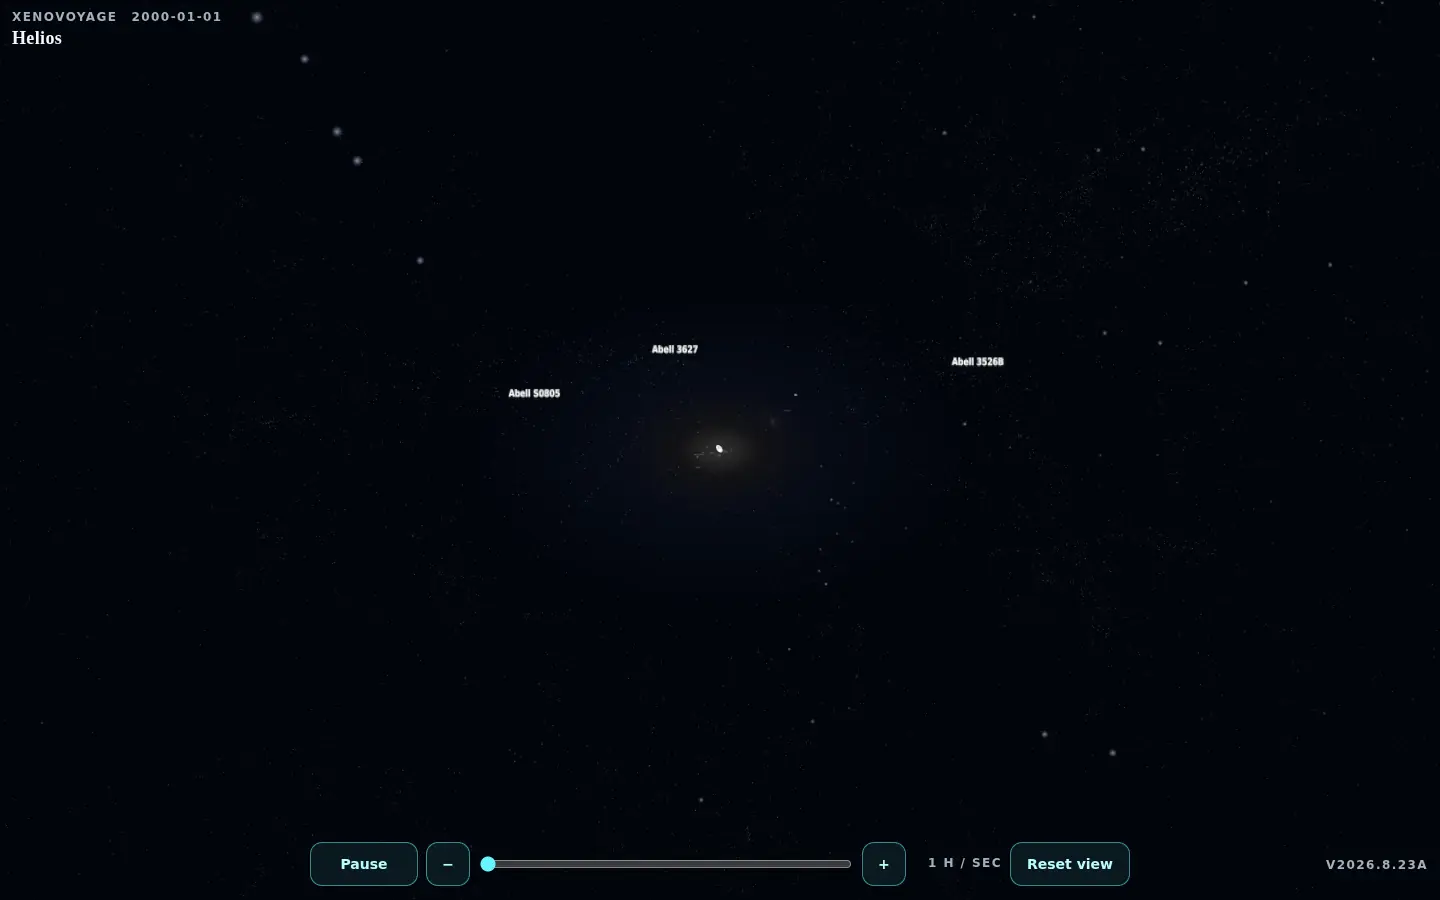
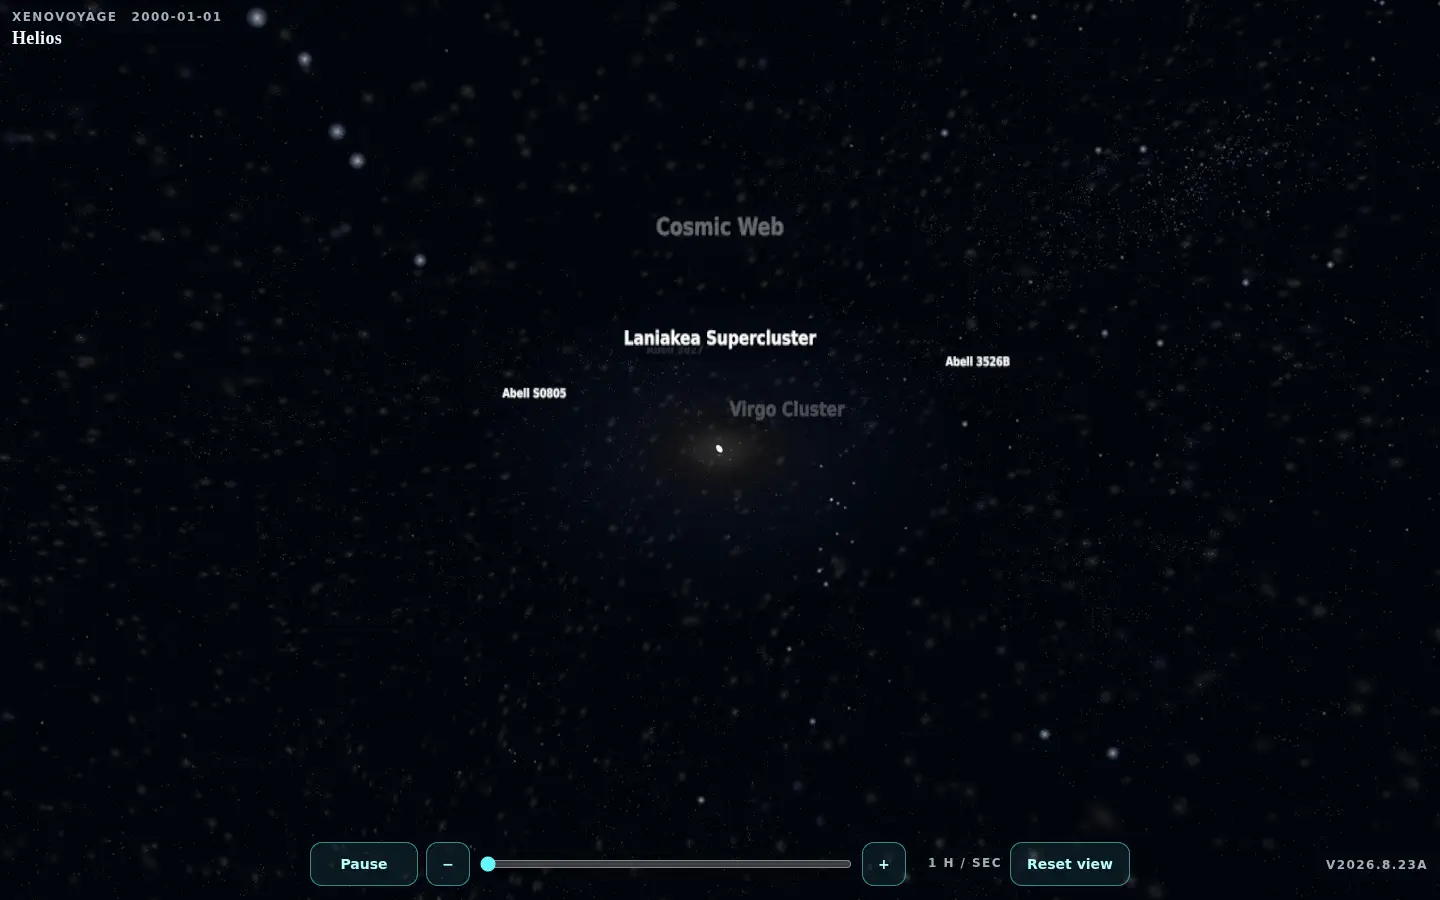
docs: refresh cosmology evidence and provenance

diff --git a/PROVENANCE.md b/PROVENANCE.md
@@ -16,11 +16,11 @@ local files.
 | Body poles and prime meridians | [NAIF generic PCK `pck00011.tpc`](https://naif.jpl.nasa.gov/pub/naif/generic_kernels/pck/pck00011.tpc) | The Sun, planets, Ceres, Pluto, the Moon, and Triton use PCK poles evaluated at J2000; this also puts Saturn's rings and each declared parent-equatorial moon frame on the source pole. Earth uses the PCK's low-accuracy `W = 190.147°`. The Moon uses the `IAU_MOON` Mean Earth/Polar Axis pole and prime meridian with all periodic terms evaluated at J2000: `RA = 266.85773344495135°`, `Dec = 65.64110274784535°`, `W = 41.1952639807452°`. Triton likewise uses its complete periodic model at J2000: `RA = 298.4509834088894°`, `Dec = 20.302361260483217°`, `W = 297.01780353391297°`. Their W values intentionally differ from the polynomial constants. Those three verified maps use W; the other inherited maps lack a retained longitude-registration record, so Helios derives the closest phase to their previous display roll and makes no scientific prime-meridian claim for them. Poles then stay fixed and spin advances linearly from the catalog period and PCK direction; this is not the complete time-dependent PCK model. Other moon axes retain their simple catalog obliquity. |
 | Bright stars | Hipparcos ESA I/239 through the [HYG compilation](https://www.astronexus.com/projects/hyg) | Equatorial J2000 positions, Johnson V magnitude, and B-V color for a bright subset in `js/sky-catalog.js`. The exact upstream HYG release and its matching license version were not retained; this is an adoption blocker. |
 | Constellation figures | [IAU / Alan MacRobert constellation charts](https://www.iau.org/public/themes/constellations/), CC BY 4.0 | HIP-number line paths in `js/sky-catalog.js`; these are conventional stick figures, not constellation boundaries. |
-| Galactic and Local Group values | Sources cited beside each value in `js/galaxy-catalog.js`: GRAVITY 2019, SIMBAD, NED, Pietrzyński 2019, Graczyk 2020, de Grijs & Bono 2014, McConnachie 2012, Mei 2007, and Tully 2014 | Published positions, distances, and scale references. Visible Milky Way arms and the far-field sky are deterministic illustrations, not survey reconstructions. |
[1 lines of base64/hex data omitted]
+| Galactic and Local Group values | Sources cited beside each value in `js/galaxy-catalog.js`: GRAVITY 2019, SIMBAD, NED, Pietrzyński 2019, Graczyk 2020, de Grijs & Bono 2014, McConnachie 2012, Mei 2007, and Tully 2014 | Published positions, distances, and scale references. Visible Milky Way arms and the far-field sky are deterministic illustrations, not survey reconstructions. The far field is generated on six cubemap faces and sampled on a camera-centered inward sphere, avoiding the equirectangular pole singularity. Screen-fixed hierarchy labels are semantic zoom cues, not scale measurements or time evolution: the Local Group and Virgo Cluster remain distinct within the historical Local (Virgo) Supercluster, shown within the Laniakea flow-basin context. |
[1 lines of base64/hex data omitted]
 | Post-Virgo cluster anchors | Lambert et al. 2020, MNRAS 497, 2954, [doi:10.1093/mnras/staa1946](https://doi.org/10.1093/mnras/staa1946), Table 1 | Seven named groups beyond Virgo and within about 100 Mpc are hand-transcribed as a small factual subset in `POST_VIRGO_CLUSTERS`; no bulk 2MRS group-catalog artifact is redistributed. Positions are the table's mean J2000 / galactic coordinates and distances are its comoving `Dc` values for `H0=73`, `OmegaM=0.3`, `OmegaLambda=0.7`. Generated points never receive catalog names. |
-| Beyond the 2MRS range | First-party `js/cosmic-web.js`, informed by the Voronoi-foam hierarchy described by van de Weygaert & Icke 1989, A&A 213, 1 | A fixed-seed 6,500-point Voronoi-proximity density illustration occupies a non-overlapping shell outside the 300 Mpc 2MRS display boundary and supplies continuity toward the CMB. It is not observed galaxies, a survey reconstruction, a named structure map, or a cosmological simulation. It contains no invented connections. Total post-Virgo density is 49,427 samples in two point draws, plus one seven-point cluster-anchor draw. |
-| Outer cosmological scale | [Planck 2018 VI](https://arxiv.org/abs/1807.06209) | The particle-horizon display uses about 46.5 Gly / 14.25 Gpc. The physical last-scattering surface is distinct; the illustrative CMB sphere is deliberately co-located with the outer display radius. Seeing that sphere “from outside” is a camera/scale metaphor. |
+| Beyond the 2MRS range | First-party `js/cosmic-web.js`, informed by the Voronoi-foam hierarchy described by van de Weygaert & Icke 1989, A&A 213, 1 | A fixed-seed 7,000-point Voronoi-proximity density illustration occupies a non-overlapping shell outside the 300 Mpc 2MRS display boundary and supplies continuity toward the CMB. The cool-wall, violet-filament, and warm-node palette is deliberately false color. Enlarged point size, additive brightness, and overlapping exposure crossfades preserve legibility between finite display volumes; they do not add objects or connections. The illustration is not observed galaxies, a survey reconstruction, a named structure map, a cosmological simulation, a photometric measurement, or a measured matter-density field. The two density point draws contain 42,927 2MRS samples plus 7,000 illustrative samples (49,927 total), plus one separate seven-point cluster-anchor draw (49,934 plotted positions including anchors). |
+| Outer cosmological scale | [Planck 2018 VI](https://arxiv.org/abs/1807.06209) | The particle-horizon display uses about 46.5 Gly / 14.25 Gpc. The physical last-scattering surface is distinct; the illustrative CMB sphere is deliberately co-located with the outer display radius. Seeing that sphere “from outside” is a camera/scale metaphor. The low-opacity CMB texture and additive radial rim are readability layers, not a literal observable-universe edge. |
 
 Runtime mapping and the source values live in `js/bodies.js`,
 `js/sky-catalog.js`, and `js/galaxy-catalog.js`. Display compression lives in
@@ -52,7 +52,7 @@ orrery model rather than claimed simulations.
[5 lines of base64/hex data omitted]
 
 For a family manifest, its listed paths are bytewise-sorted, hashed individually
 with `sha256sum`, and that textual manifest is hashed once with `sha256sum`.

diff --git a/README.md b/README.md
@@ -25,17 +25,17 @@ An interactive 3D orrery of the solar system.
 
 ![Nearby galaxies: Andromeda, Triangulum, and the Magellanic Clouds beside the disk.](docs/assets/helios-neighborhood.webp)
 
-![Local Group after a further zoom: M31, M33, the Magellanic Clouds, and a short set of other members.](docs/assets/helios-local-group.webp)
+![Local Group after a further zoom: its aggregate label replaces the now-unreadable individual galaxy labels.](docs/assets/helios-local-group.webp)
 
-![Virgo Cluster with the Local Group nearby. Other clusters have not arrived yet.](docs/assets/helios-virgo.webp)
+![Virgo Cluster and Local (Virgo) Supercluster labels outrank the smaller Local Group label.](docs/assets/helios-virgo.webp)
 
-![After Virgo, seven measured group anchors lead into the observed 2MRS galaxy distribution.](docs/assets/helios-preweb.webp)
+![After Virgo, Laniakea and seven measured group anchors lead into the observed 2MRS galaxy distribution.](docs/assets/helios-preweb.webp)
 
 ![The flux-limited 2MRS galaxy distribution in redshift space, shown as points without invented connections.](docs/assets/helios-web.webp)
 
 ![Schematic outside-camera view: a translucent illustrative CMB shell around a bounded, explicitly non-survey outer density.](docs/assets/helios-universe.webp)
 
-Tap or click a world — including the Sun — to focus it. Drag to orbit. Pinch-out zooms in; pinch-in zooms out. Play, pause, and change the speed of time from the bar at the bottom. Close the body card with the X or by tapping empty space. Zoom out past the solar overview and the orrery shrinks to a Sun among the stars. The Hipparcos sky, IAU figures, and Gaia band stay at constant brightness through the solar cap, so the first extra-zoom frame is already inside the Milky Way tail. The moment the camera leaves that tail, that solar sky and the Constellations control go off. Extra-zoom sky is a distant galaxy-image field from the tail through Virgo. The full disk, neighborhood, Local Group, and Virgo are catalog neighbors against that field, not a scatter of invented nearby galaxies. After Virgo, seven measured group anchors lead into 42,927 public 2MRS galaxy directions with approximate redshift distances; there are no invented web connections. Beyond the survey's 300 Mpc display cap, a small first-party density illustration provides continuity to the Planck-style CMB shell. That shell is deliberately drawn at the particle-horizon display radius. Leaving it is only an outside-camera/scale metaphor, not a physically possible observer. We sit in the Local Group, inside Laniakea; Virgo is the nearest large cluster, not our cluster in the same sense.
+Tap or click a world — including the Sun — to focus it. Drag to orbit. Pinch-out zooms in; pinch-in zooms out. Play, pause, and change the speed of time from the bar at the bottom. Close the body card with the X or by tapping empty space. Zoom out past the solar overview and the orrery shrinks to a Sun among the stars. The Hipparcos sky, IAU figures, and Gaia band stay at constant brightness through the solar cap, so the first extra-zoom frame is already inside the Milky Way tail. The moment the camera leaves that tail, that solar sky and the Constellations control go off. Extra-zoom sky from the tail through Virgo is a camera-centered spherical galaxy-image field sampled from a six-face cubemap, without equirectangular pole distortion. The full disk, neighborhood, Local Group, and Virgo are catalog neighbors against that field, not a scatter of invented nearby galaxies. After Virgo, seven measured group anchors lead into 42,927 public 2MRS galaxy directions with approximate redshift distances; there are no invented web connections. Beyond the survey's 300 Mpc display cap, a small first-party density illustration provides continuity to the Planck-style CMB shell. That shell is deliberately drawn at the particle-horizon display radius. Leaving it is only an outside-camera/scale metaphor, not a physically possible observer. We sit in the Local Group, inside Laniakea; Virgo is the nearest large cluster, not our cluster in the same sense.
 
 Helios is a local page: no accounts, no telemetry, and no CDN.
 
@@ -53,7 +53,7 @@ Helios is a local page: no accounts, no telemetry, and no CDN.
 
 True 1:1 distances make every planet vanish beside the Sun. Helios retains published NASA / JPL periods, spins, tilts, radii, and Keplerian elements in its catalog, then compresses **distances more than sizes** so the system can be read at a glance. The one planet-spacing knob is `CONFIG.visualScale` in `js/config.js`; it multiplies a compressed AU curve (`orbitScale * AU^orbitPower`). Body sizes use the same kind of curve (`sizeScale * (radius/Earth)^sizePower`). Moons share that size curve. Moon distances stay a compressed real-radii map: outside their parent, just outside any rings, and outside a readable gap from the next inner sibling. Calendar positions use fixed J2000 mean elements with two-body propagation, not JPL Horizons or a perturbation ephemeris. The Sun, planets, Ceres, Pluto, the Moon, and Triton use fixed J2000 PCK poles. Earth, Moon, and Triton also use verified prime-meridian phases; inherited maps without a retained longitude-registration record keep their closest previous display roll rather than claim an unverified scientific longitude. Except for the Moon and Triton, synchronous moon rates only prevent secular longitudinal drift: their simple axes and texture phases are not registered near-side models. The lunar model shows bounded geometric libration but not the complete time-varying PCK model. Lighting supplies a terminator and readable night-side fill, not cast shadows or eclipses. Time is a separate slider.
 
-The Milky Way disk is a deterministic, stylized four-arm illustration. Its catalog distances and the Sun's Orion Arm label are sourced, but the visible arm particles are not a survey reconstruction. The later 2MRS view is observational but still selective: it is K-band flux-limited, omits the Galactic Zone of Avoidance, and maps barycentric radial velocity to `D=cz/H0` rather than correcting peculiar velocities. It must not be read as a complete matter-density reconstruction.
+The Milky Way disk is a deterministic, stylized four-arm illustration. Its catalog distances and the Sun's Orion Arm label are sourced, but the visible arm particles are not a survey reconstruction. The later 2MRS view is observational but still selective: it is K-band flux-limited, omits the Galactic Zone of Avoidance, and maps barycentric radial velocity to `D=cz/H0` rather than correcting peculiar velocities. It must not be read as a complete matter-density reconstruction. Cosmological point sizes and additive brightness, the outer web's false-color palette, and the boundary rim are deliberately stylized for readability; they are not photometrically calibrated measurements or literal structure boundaries. The label hierarchy fades unreadable galaxy names into Local Group context, keeps the Local Group and Virgo Cluster separate, and then rolls up through the historical Local (Virgo) Supercluster, Laniakea Supercluster, Cosmic Web, and Observable Universe. It describes spatial scale during zoom, not object renaming, physical-size measurement, or cosmological time evolution.
 
 ## Run locally
 
